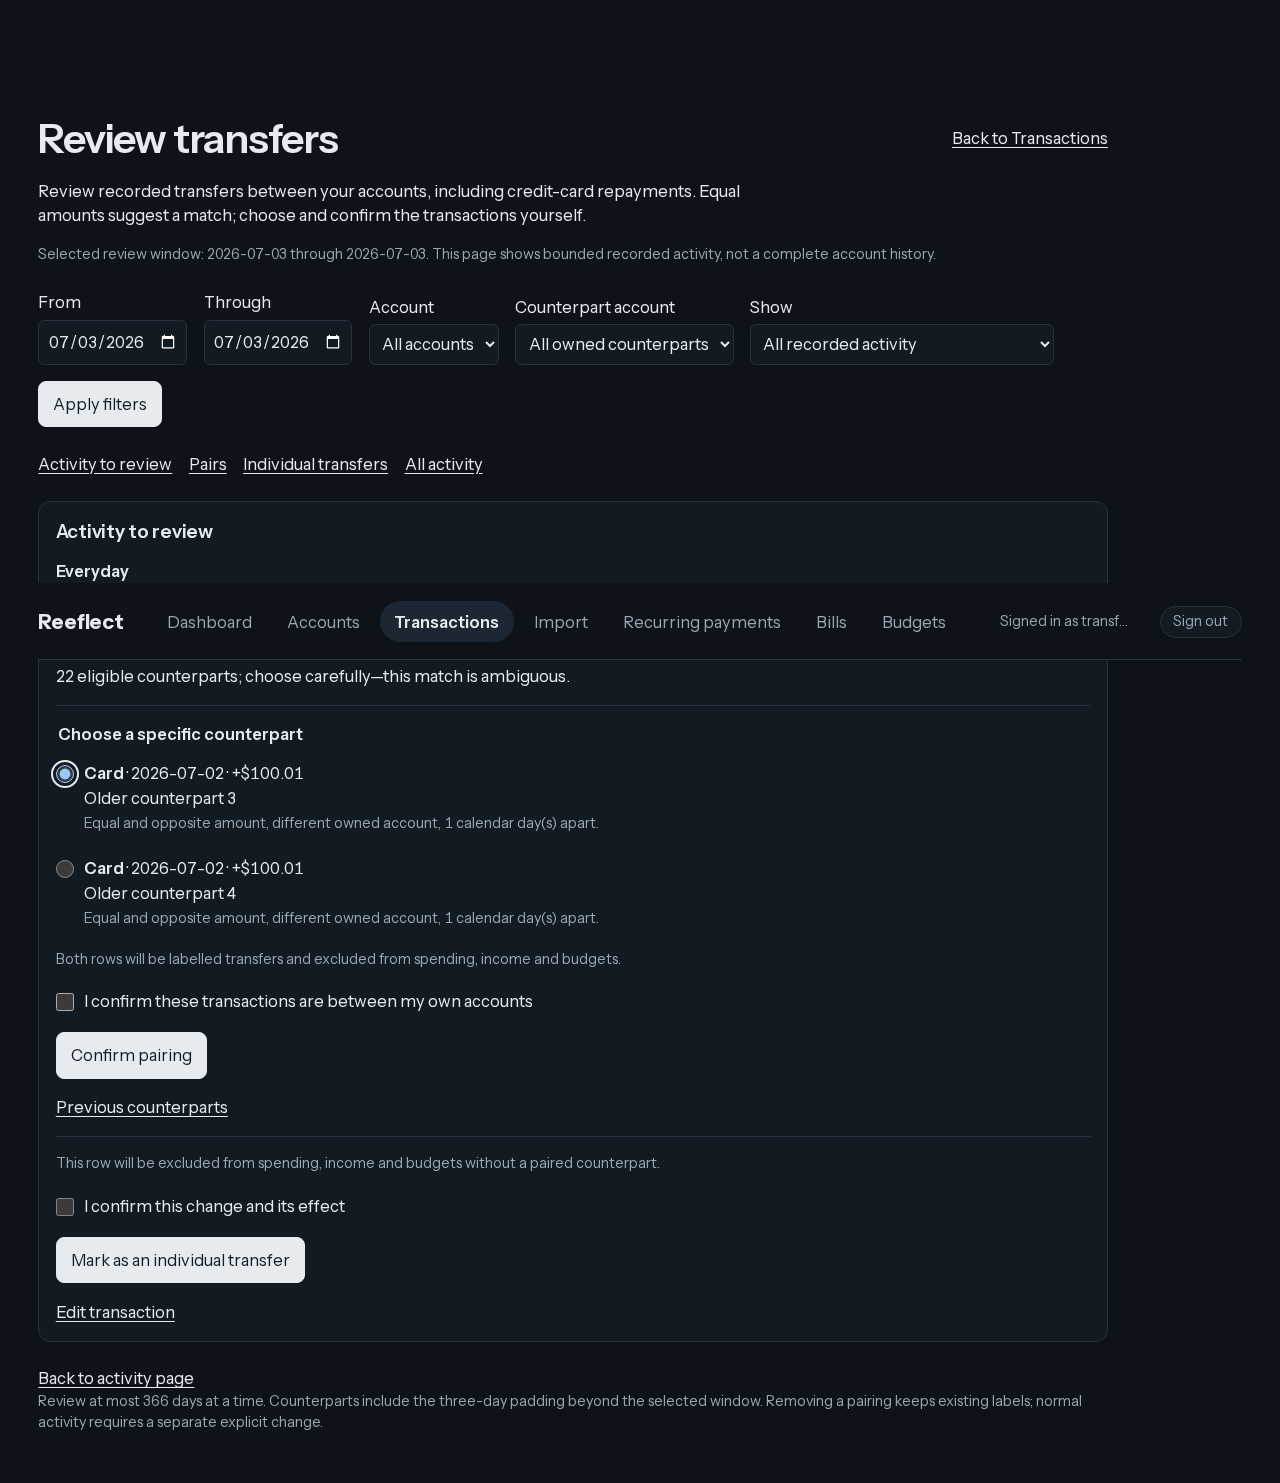
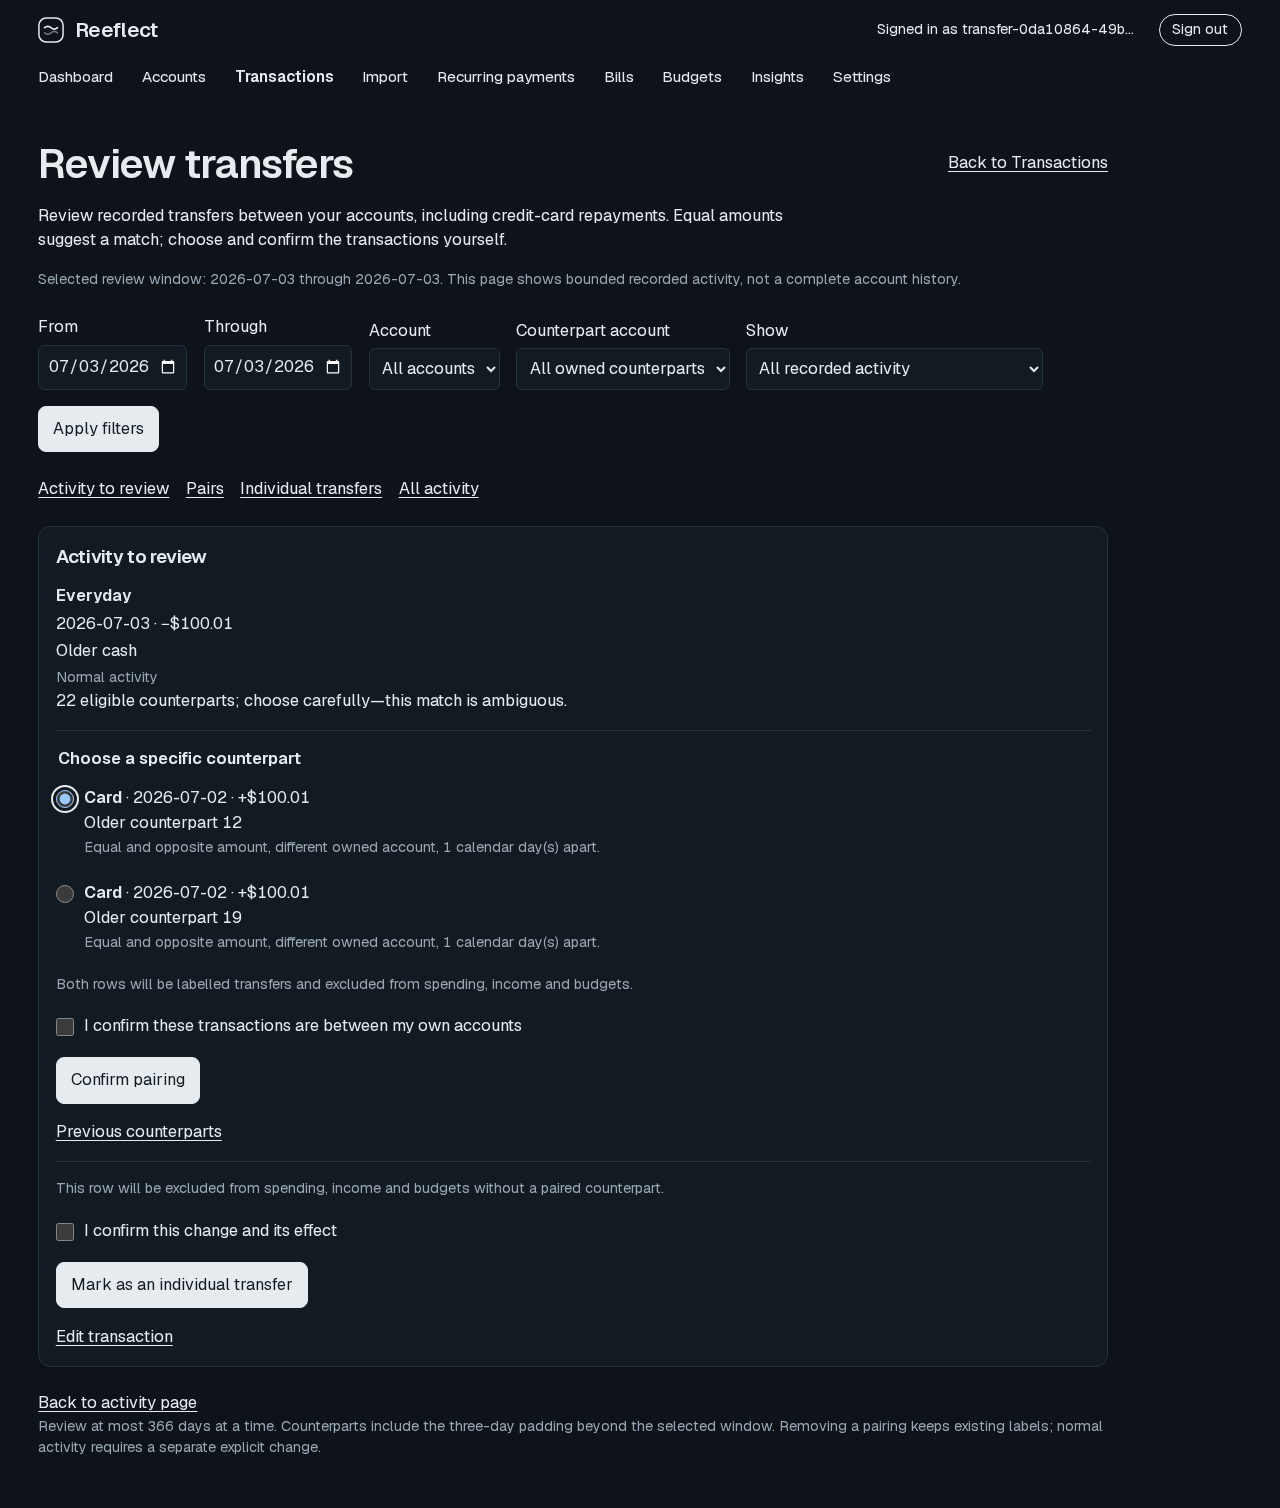
test(e2e): verify combined transfer review against main

diff --git a/tests/e2e/categorization.spec.ts b/tests/e2e/categorization.spec.ts
@@ -11,10 +11,15 @@ import { hydrated, ownClientAddress, signUpVerified } from "./support";
 
 // Real browser + real local PostgreSQL. Fixtures enter transactions as an
 // importer would; categorization and all corrections use the production UI.
-const pool = new Pool({
-  connectionString:
-    process.env.DATABASE_URL ?? "postgres://test:test@localhost:5433/app_test",
-  max: 2,
+let pool: Pool;
+test.beforeAll(() => {
+  // Parallel groups can return to this module after its pool was closed.
+  pool = new Pool({
+    connectionString:
+      process.env.DATABASE_URL ??
+      "postgres://test:test@localhost:5433/app_test",
+    max: 2,
+  });
 });
 const userIds: string[] = [];
 const contexts: BrowserContext[] = [];

diff --git a/tests/e2e/transfers.spec.ts b/tests/e2e/transfers.spec.ts
@@ -344,6 +344,10 @@ test("loads older padded counterparts across pages and supports narrow screens, 
       await form.getByRole("radio").first().focus();
       await fx.page.keyboard.press("Space");
       await expect(form.getByRole("radio").first()).toBeChecked();
+      // Focus scrolls the form into view; capture the sticky header at the top.
+      await fx.page.evaluate(() =>
+        window.scrollTo({ top: 0, behavior: "instant" }),
+      );
       await fx.page.screenshot({
         path: `docs/screenshots/transfers/${width}-${colorScheme}.png`,
         fullPage: true,

diff --git a/docs/HANDOFF.md b/docs/HANDOFF.md
@@ -4189,3 +4189,56 @@ rows", transactions 2 "show more" in steps of 20, plus a view-only list.
 - Reviews remain bounded and do not claim complete all-time history. Oversized
   candidate/group/account scopes show refinement or retry feedback.
 - Publication and deployed CI results remain outside this local verification.
+
+## HO-118: Combine Neon readiness and transfer review for one PR
+
+- **Date:** 2026-10-11
+- **Author:** Muhammad Tahub Khatri with Codex
+- **Branch / PR:** `feat/transfer-review` / requested combined PR to `main`
+
+### What changed
+- The user requested merging both implementation branches and opening one PR.
+  Merged `chore/database-readiness` into `feat/transfer-review`, then merged
+  current main `5a60b11`, including quiet hours, UI improvements and receipt
+  photos. This combined branch contains both implementations and main.
+- Resolved documentation conflicts by preserving all team history and both
+  commands in AGENTS.md. Main owns HO-115 for receipt photos; renumbered our
+  readiness entry to HO-116 and transfer entry to HO-117. ADR-066 remains the
+  accepted transfer decision; main's ADR-067 is preserved.
+- Kept original `work` checkout changes untouched. Only the combined feature
+  branch will be published; no deployment or merge into main is requested.
+
+### Verified
+- Lint, formatting, app/worker typechecks, docs, production build, bundle scan
+  (50 files) and diff checks pass after consolidation.
+- The configured Neon app database reports READY through the optional
+  WebSocket transport. Missing journal entries 0010/0017 and one timestamp
+  remain diagnostic warnings; the financial-page schema and SELECT contract
+  pass. The check performs no production writes or repairs.
+- Verified local `app_test`, applied main's pending migrations 0016/0017 only
+  there, and ran its read-only readiness check successfully. Created a
+  separate local database for browser tests so concurrent unit isolation
+  checks cannot observe browser fixture writes.
+- The first full unit run passed 2,684/2,685 tests; one real Neon storage
+  prefix test exceeded its unchanged 5-second timeout. All four storage tests
+  passed on immediate retry. The final full unit run passes all 2,685 tests
+  in 138 files, including real Neon storage, with unchanged thresholds:
+  91.90% lines and 89.09% branches.
+- The first browser run passed 128/131. A categorization fixture reused an
+  ended pool across parallel groups; moved creation to beforeAll, matching
+  the existing Budgets and transfer fixes. Navigation and planned-spending
+  timing failures both pass on focused retry after the unit run finishes;
+  all three failed checks plus setup pass in 12.9 seconds with traces.
+  The final full browser run passes all 131 non-external tests in 2.8 minutes,
+  including all eight transfer flows, with four workers and the same timeout.
+- Scroll to the top after keyboard focus before full-page transfer screenshots,
+  so the sticky header is captured in its normal position. Browser assertions
+  and timeouts remain unchanged. Test changes pass lint and formatting.
+
+### What's next
+- Publish this combined branch as the user requested. GitHub CI and teammate
+  review follow; merge only after the repository's required checks and review.
+
+### Open problems
+- Published CI and teammate review remain pending. Transfer review
+  bounds and readiness limits remain as documented in HO-116 and HO-117.
